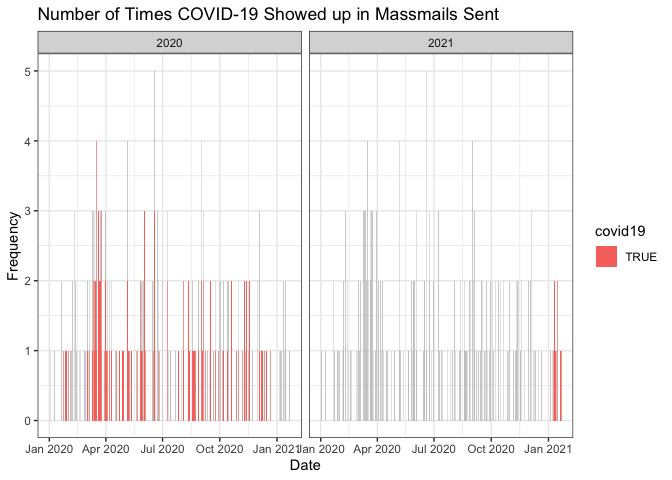
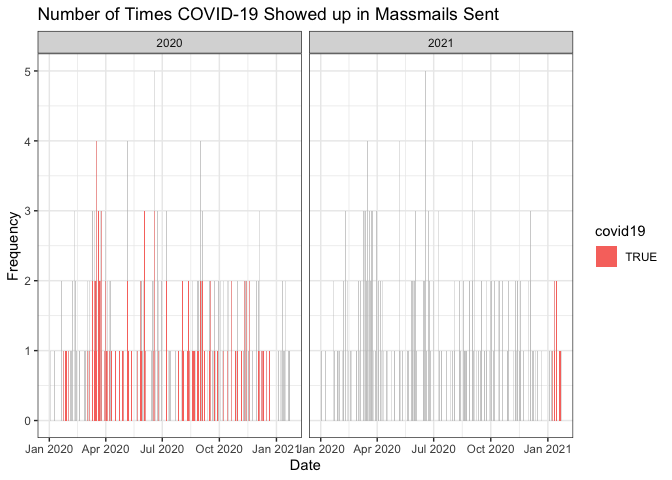
Re-build README.Rmd and Graphs

diff --git a/README.md b/README.md
@@ -17,7 +17,7 @@ The archive may be viewed here:
 
 <https://massmail.illinois.edu/massmailArchive>
 
-Data has **1266** observations and **7** variables:
+Data has **1267** observations and **7** variables:
 
   - `datetime`: Date and time when the email was sent in the form of
     `YYYY-MM-DD HMS` with either CDT or CST.
@@ -205,14 +205,14 @@ head(most_popular_words, 10) %>%
 
 | word        | freq |
 | :---------- | ---: |
-| students    |  779 |
-| campus      |  725 |
-| university  |  710 |
-| illinois    |  446 |
+| students    |  780 |
+| campus      |  727 |
+| university  |  721 |
+| illinois    |  458 |
 | covid       |  412 |
 | faculty     |  386 |
-| community   |  374 |
-| information |  332 |
+| community   |  378 |
+| information |  335 |
 | staff       |  313 |
 | health      |  299 |
 
